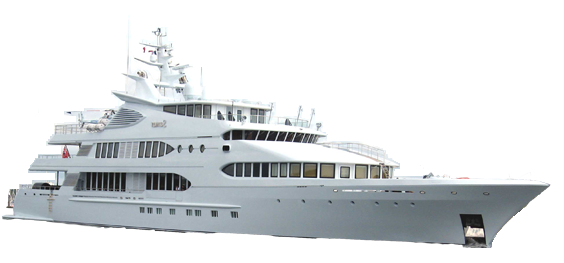
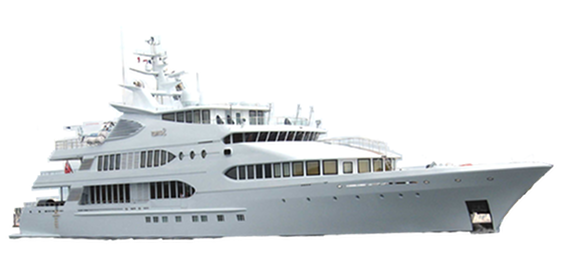
all images

Changed region(s): [[0.0, 0.0913, 0.9947, 0.943]]

diff --git a/app/assets/stylesheets/application.css.scss b/app/assets/stylesheets/application.css.scss
@@ -25,15 +25,16 @@
 
 #moving-boat-div {
   background-image: url("ship2.png");
+  display:inline-block;
   width: 564px;
   height: 263px;
   position:absolute;
-  bottom: 30px;
+  bottom: 200px;
   transition: 3s;
   #light-1, #light-2 {
     position: absolute;
     top:10px;
-    left: 125px;
+    left: 113px;
     background-color: yellow;
     height: 10px;
     width:10px;
@@ -55,6 +56,19 @@
 #moving-boat {
   position: absolute;
   bottom:0px;
+}
+#moving-ocean {
+  background-image: url("ocean-bottom1.png");
+  height: 300px;
+  width: 4000px;
+  position: absolute;
+  bottom: 0px;
+  left: -2000px;
+}
+#wave {
+  position: absolute;
+  bottom: 40px;
+  left: -1200px;
 }
 
 a:focus {

diff --git a/config/routes.rb b/config/routes.rb
@@ -1,5 +1,6 @@
 Rails.application.routes.draw do
   root 'root#home'
+  get '/party', to: 'root#party'
   get '/login', to: 'sessions#new'
   resources :users, only: [:new, :create]
   resource :session, only: [:new, :create, :destroy]

diff --git a/app/controllers/root_controller.rb b/app/controllers/root_controller.rb
@@ -2,4 +2,6 @@ class RootController < ApplicationController
   before_action :must_be_logged_in
   def home
   end
+  def party
+  end
 end
